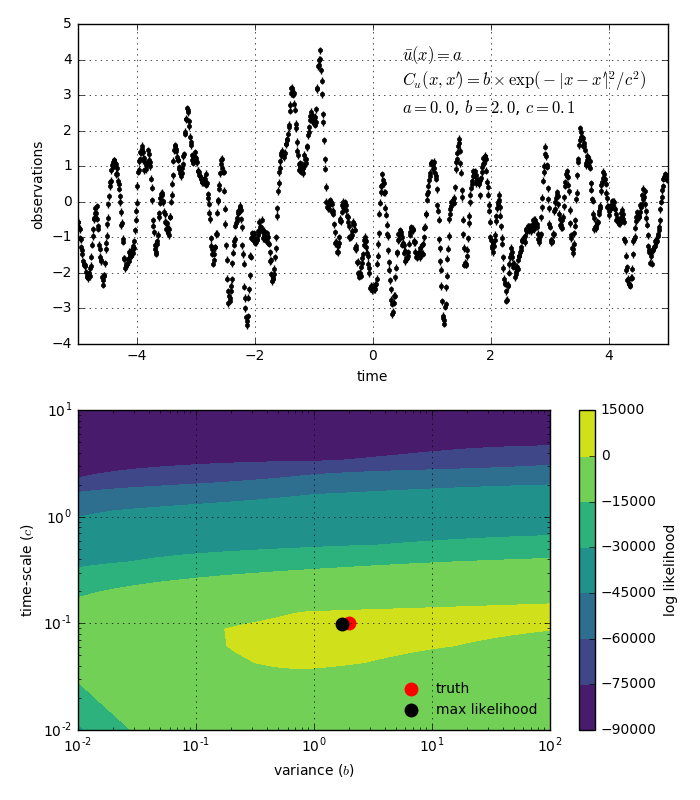
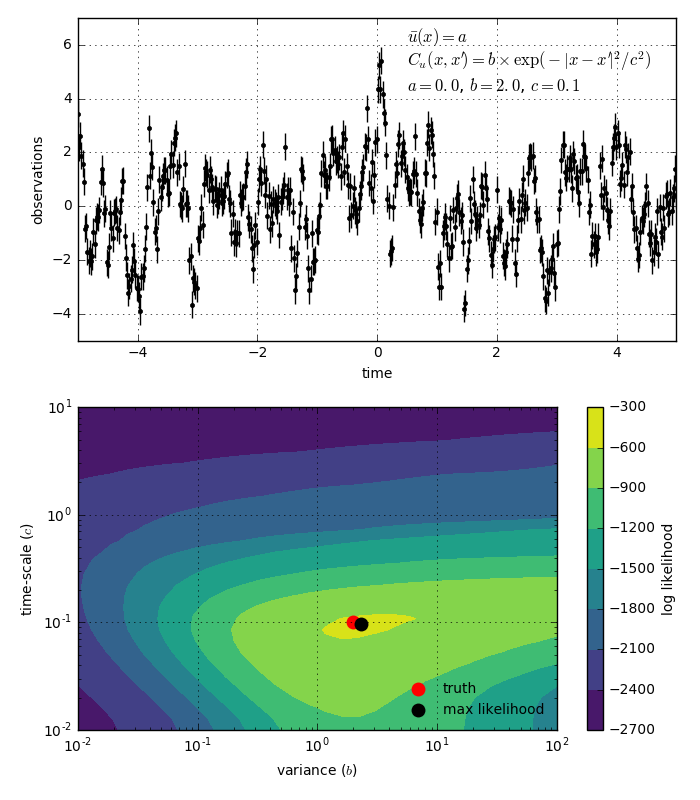
changed demo file

diff --git a/docs/scripts/gauss.f.py b/docs/scripts/gauss.f.py
@@ -8,11 +8,11 @@ import numpy as np
 import matplotlib.pyplot as plt
 from scipy.optimize import fmin
 import rbf
-np.random.seed(2)
+np.random.seed(3)
 
-n = 1000 # number of observations
+n = 500 # number of observations
 t = np.linspace(-5.0,5.0,n)[:,None] # observation points
-sigma = 0.1*np.ones(n) # observation noise 
+sigma = 0.5*np.ones(n) # observation noise 
 
 # True signal which we want to recover. This is a squared exponential 
 # function with mean=0.0, variance=2.0, and time-scale=0.1. For 
@@ -25,9 +25,9 @@ gp_true  = rbf.gauss.gpse((a,b,c))
 d = gp_true.draw_sample(t) + np.random.normal(0.0,sigma)
 
 # find the optimal hyperparameter with a brute force grid search
-b_search = 10**np.linspace(-2,2,25)
-c_search = 10**np.linspace(-2,1,20)
-likelihoods = np.zeros((25,20))
+b_search = 10**np.linspace(-2,2,30)
+c_search = 10**np.linspace(-2,1,30)
+likelihoods = np.zeros((30,30))
 for i,b_test in enumerate(b_search): 
   for j,c_test in enumerate(c_search): 
     gp  = rbf.gauss.gpse((0.0,b_test,c_test))
@@ -59,12 +59,13 @@ ax = axs[0]
 ax.grid(True)
 ax.errorbar(t[:,0],d,sigma,fmt='k.',capsize=0,label='observations')
 ax.set_xlim((-5.0,5.0))
+ax.set_ylim((-5.0,7.0))
 ax.set_xlabel('time',fontsize=10)
 ax.set_ylabel('observations',fontsize=10)
 ax.tick_params(labelsize=10)
-ax.text(0.5,4.0,r"$\bar{u}(x) = a$")
-ax.text(0.5,3.25,r"$C_u(x,x') = b\times\exp(-|x - x'|^2/c^2)$")
-ax.text(0.5,2.5,r"$a = %s$, $b = %s$, $c = %s$" % (a,b,c))
+ax.text(0.55,0.925,r"$\bar{u}(x) = a$",transform=ax.transAxes)
+ax.text(0.55,0.85,r"$C_u(x,x') = b\times\exp(-|x - x'|^2/c^2)$",transform=ax.transAxes)
+ax.text(0.55,0.775,r"$a = %s$, $b = %s$, $c = %s$" % (a,b,c),transform=ax.transAxes)
            
 ax = axs[1]
 ax.set_yscale('log')
